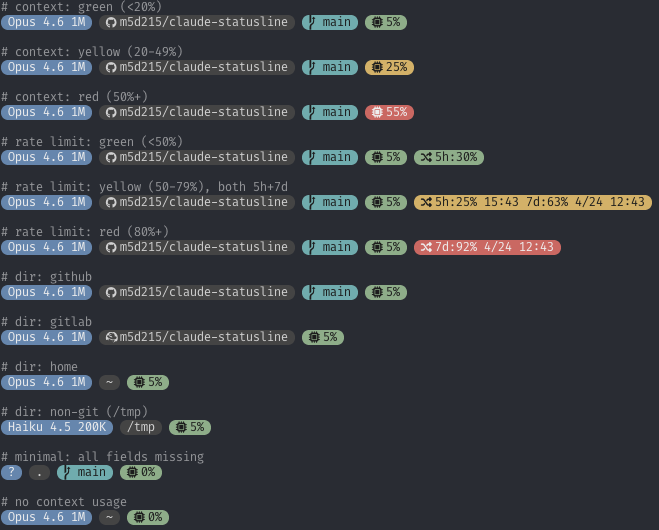
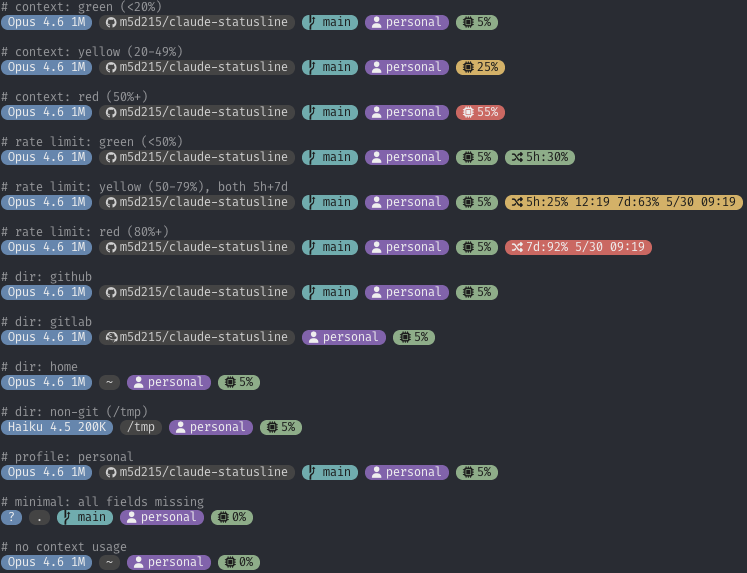
feat: add profile segment from CLAUDE_CONFIG_DIR
Renders the basename of $CLAUDE_CONFIG_DIR as a purple pill between the
git branch and context segments. Hidden when CLAUDE_CONFIG_DIR is unset
or equals ~/.claude so the default setup is unaffected.

diff --git a/README.md b/README.md
@@ -11,6 +11,7 @@ A Powerline-style status line and subagent panel renderer for [Claude Code](http
 | Model | Claude model name and context window size |
 | Directory | Current working directory (`~/src/github.com/` and `~/src/gitlab.com/` are shortened with icons) |
 | Git branch | Current branch (hidden when not in a git repo) |
+| Profile | Basename of `$CLAUDE_CONFIG_DIR` (hidden when unset or `~/.claude`) |
 | Context % | Context window usage — green → yellow → red as it fills |
 | Rate limits | 5-hour and 7-day usage with reset time (hidden when no data) |
 
